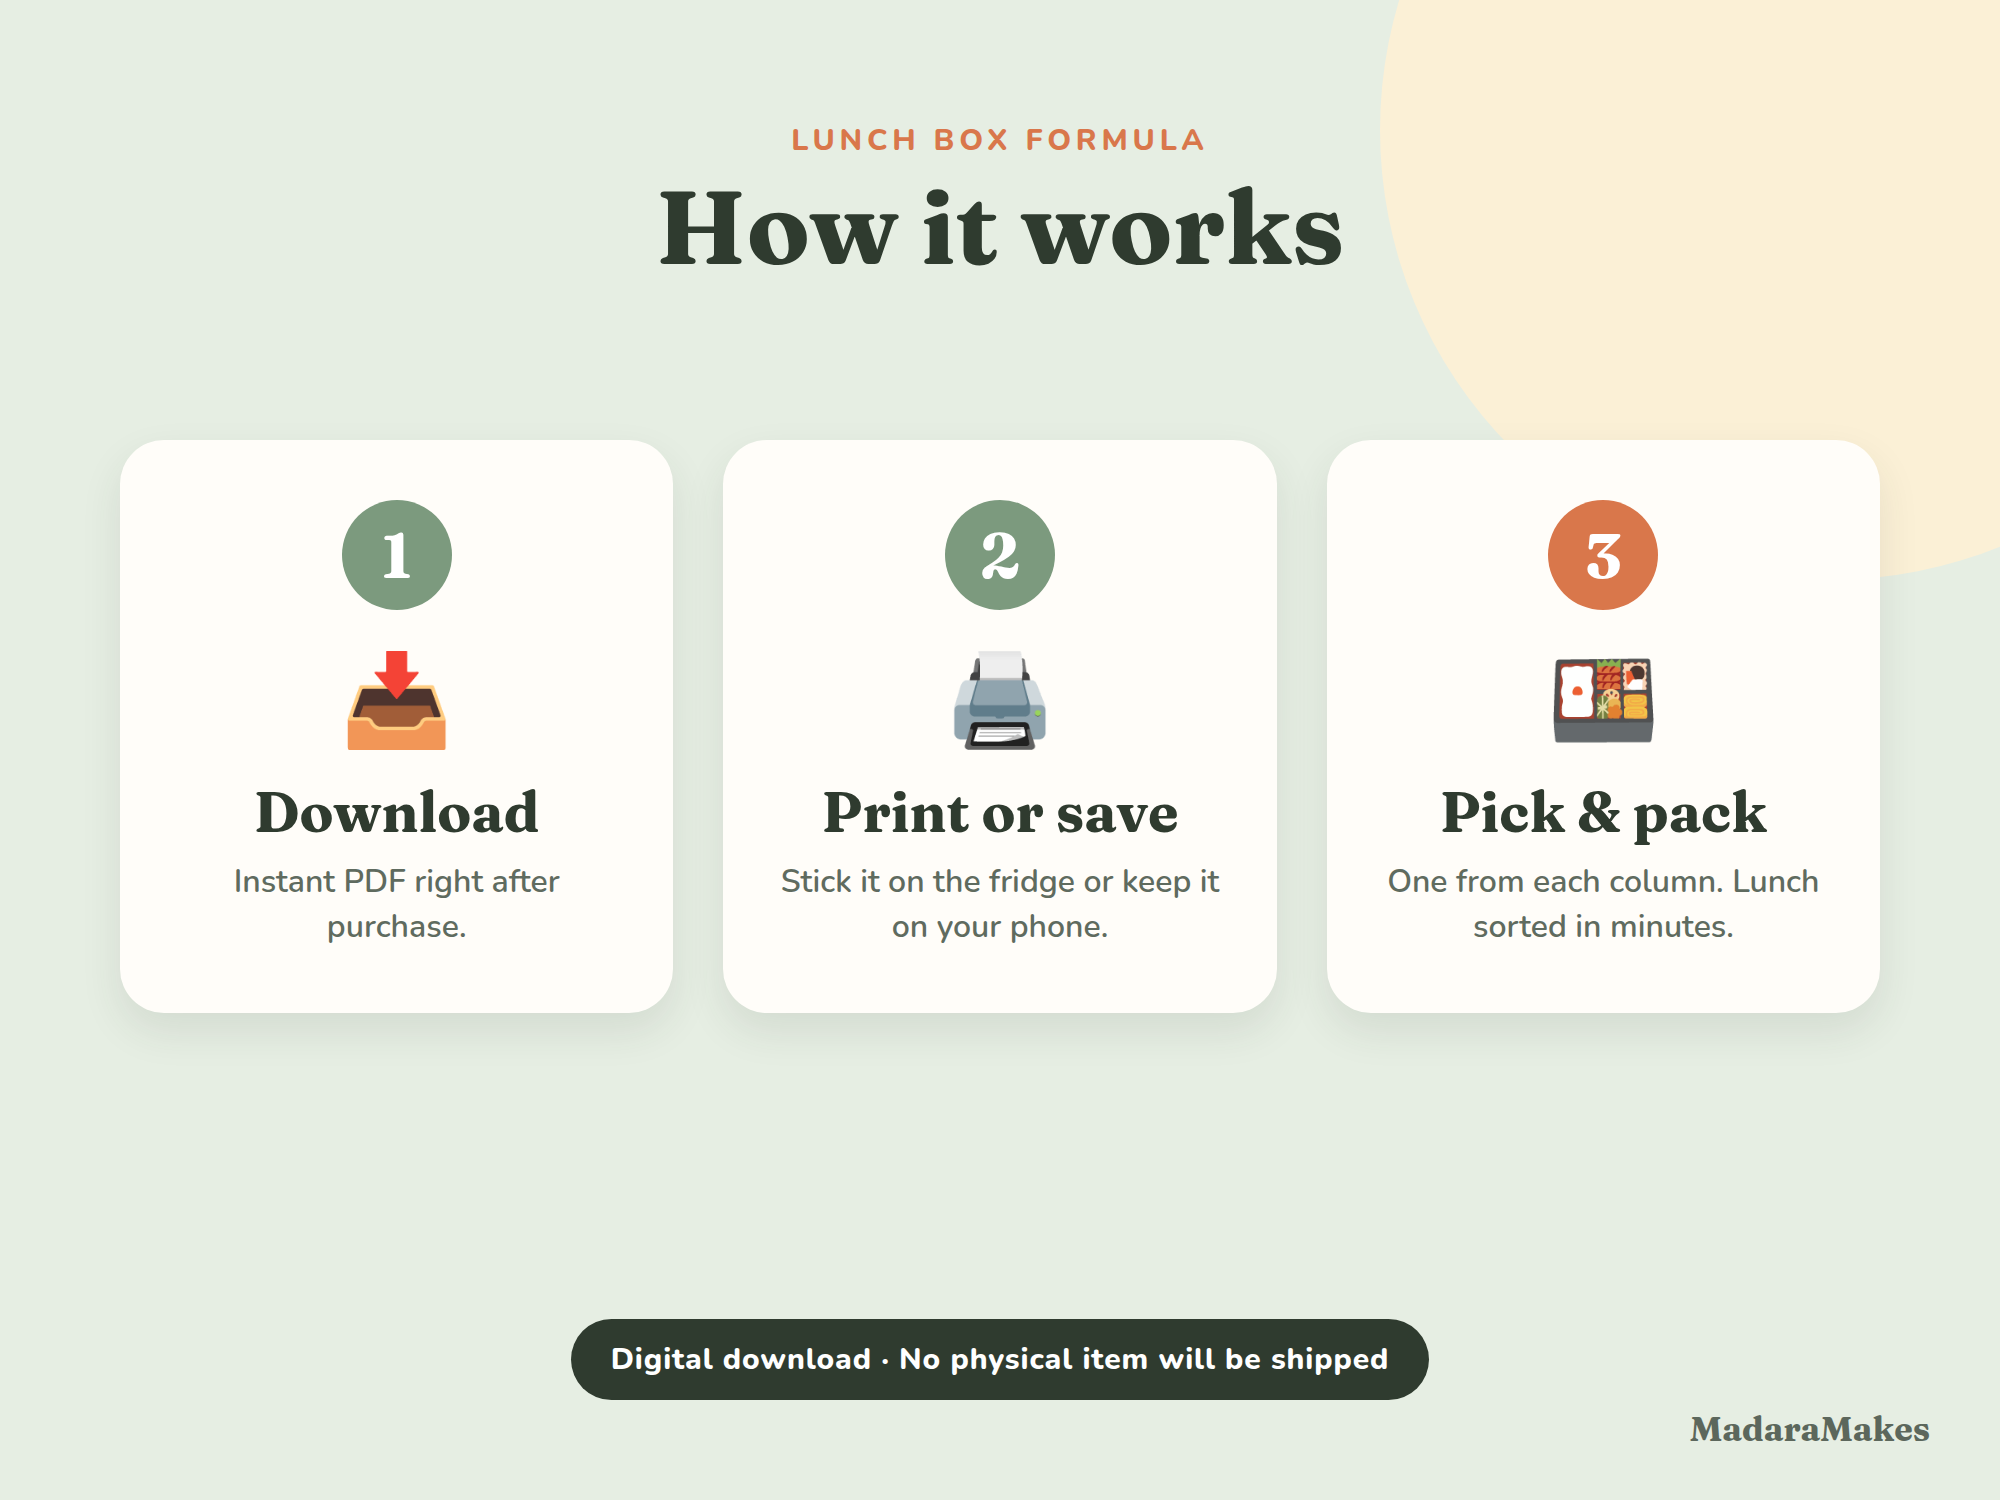
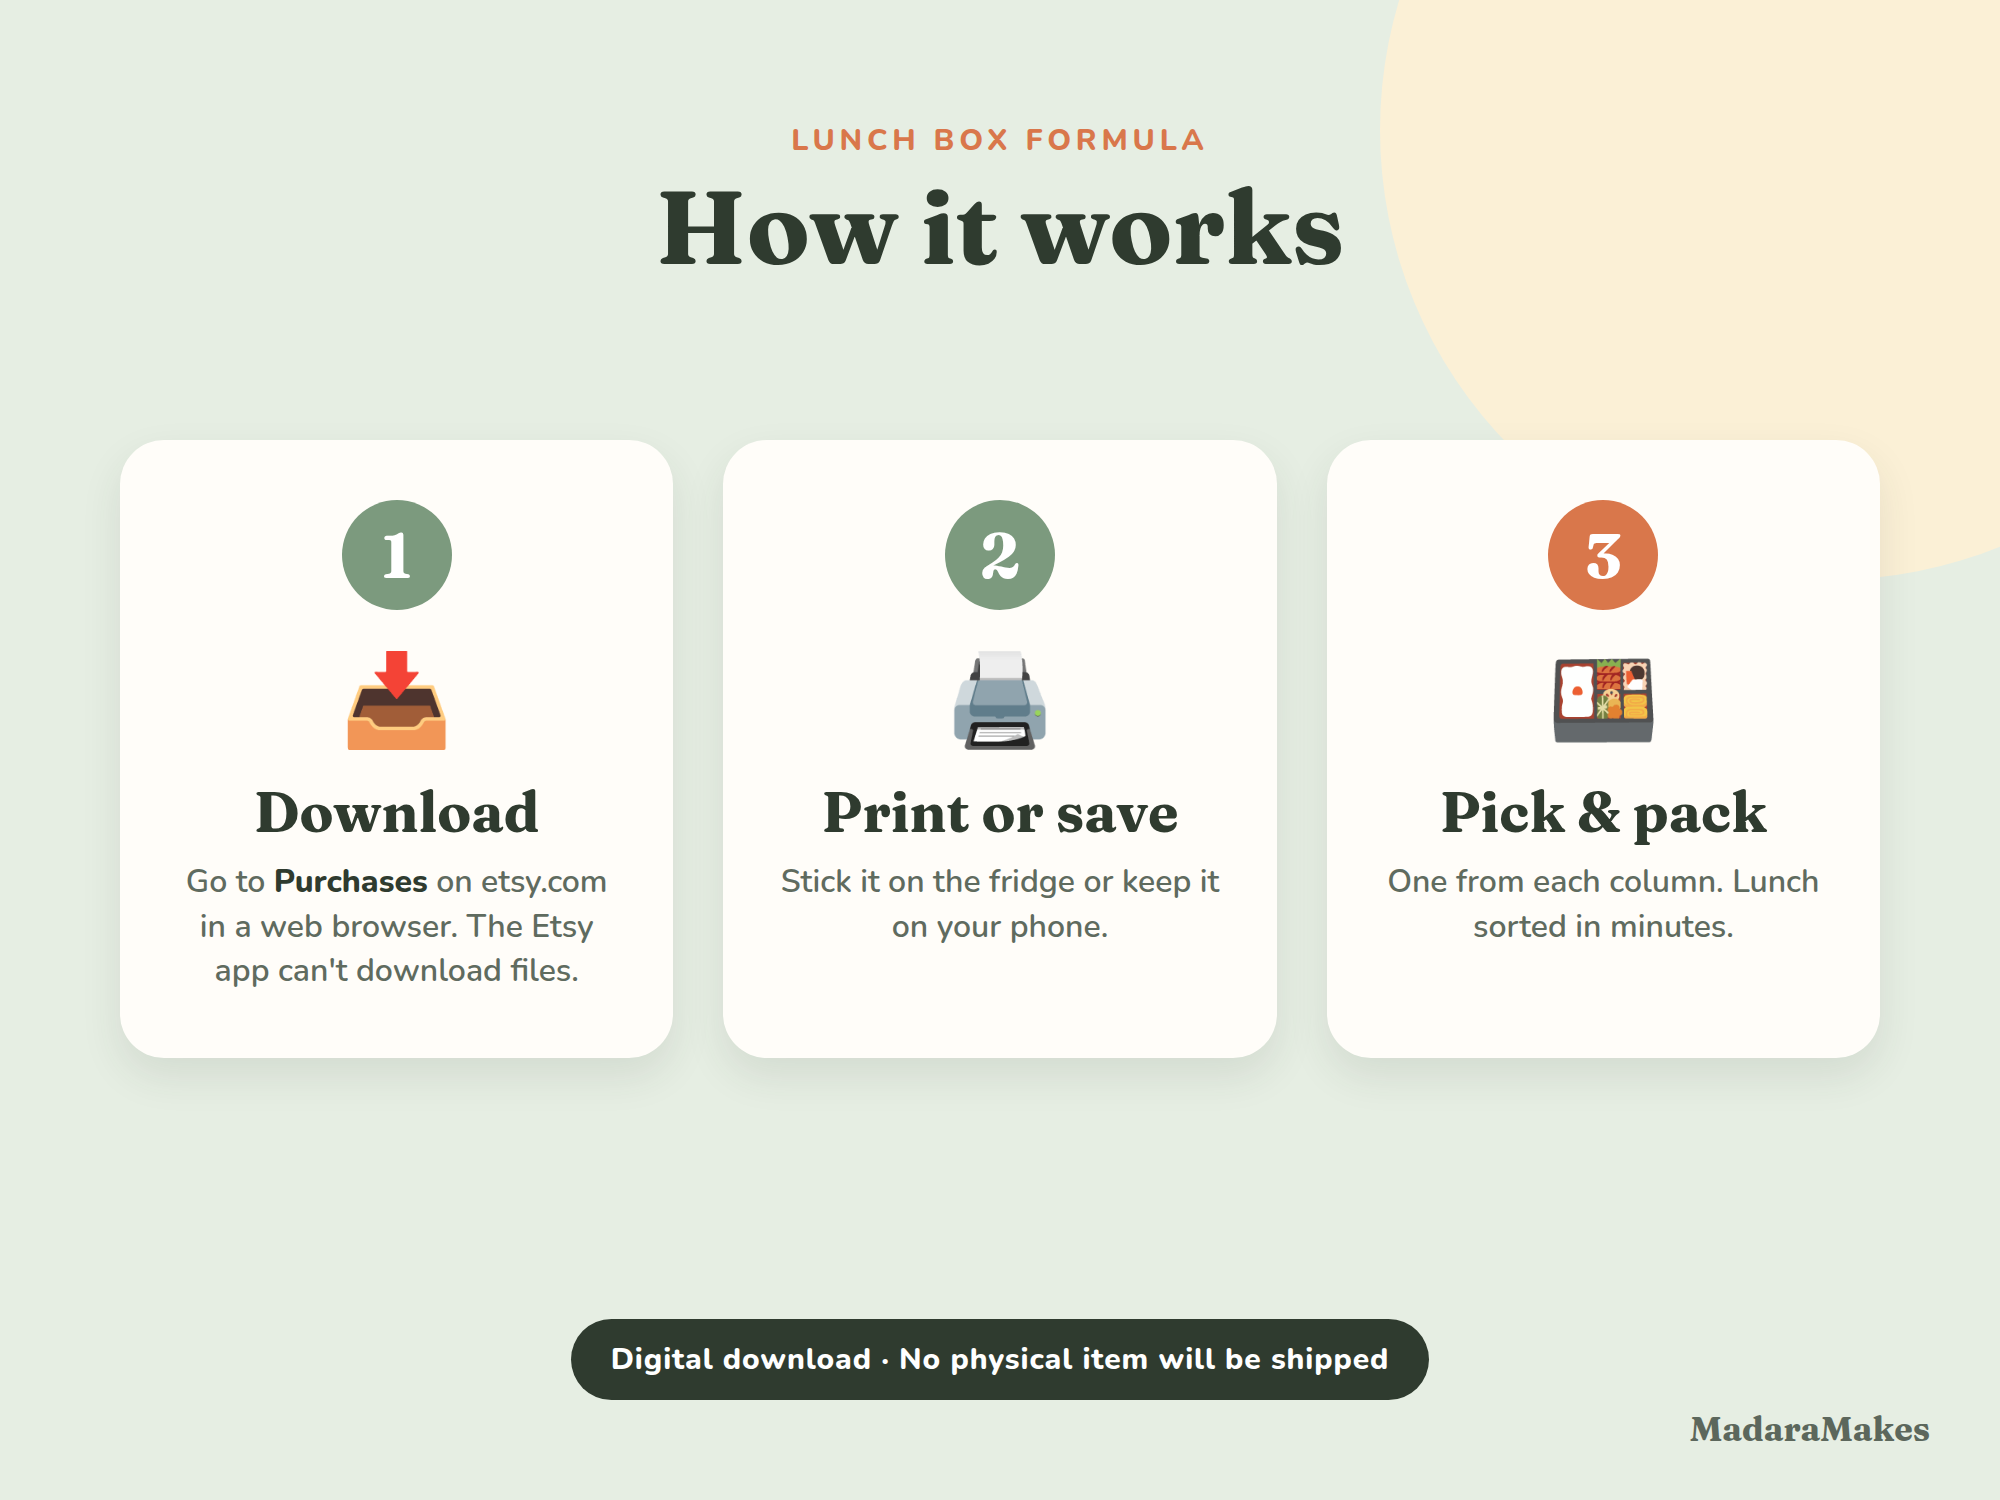
Add Etsy download instructions to How it works image
Claude-Session: https://claude.ai/code/session_01KPPwg3qjQ8qHbGrYntyvxT

Changed region(s): [[0.062, 0.5827, 0.961, 0.7053]]

diff --git a/freebie/listing/mockup-3-how.html b/freebie/listing/mockup-3-how.html
@@ -11,6 +11,7 @@
   .step:nth-child(3) .num { background: var(--terracotta); }
   .emoji { font-size: 90px; margin-bottom: 20px; }
   .t { font-family: "Fraunces", serif; font-size: 56px; line-height: 1.05; margin-bottom: 18px; }
+  .d b { color: var(--ink); }
   .d { font-size: 32px; font-weight: 600; color: var(--muted); line-height: 1.4; }
   .note { position: absolute; left: 0; right: 0; bottom: 120px; text-align: center; }
   .note span { background: var(--ink); color: #fff; font-weight: 800; font-size: 30px; padding: 20px 40px; border-radius: 99px; letter-spacing: .03em; }
@@ -22,7 +23,7 @@
     <h1>How it works</h1>
   </header>
   <div class="steps">
-    <div class="step"><div class="num">1</div><div class="emoji">📥</div><div class="t">Download</div><div class="d">Instant PDF right after purchase.</div></div>
+    <div class="step"><div class="num">1</div><div class="emoji">📥</div><div class="t">Download</div><div class="d">Go to <b>Purchases</b> on etsy.com in a web browser. The Etsy app can't download files.</div></div>
     <div class="step"><div class="num">2</div><div class="emoji">🖨</div><div class="t">Print or save</div><div class="d">Stick it on the fridge or keep it on your phone.</div></div>
     <div class="step"><div class="num">3</div><div class="emoji">🍱</div><div class="t">Pick &amp; pack</div><div class="d">One from each column. Lunch sorted in minutes.</div></div>
   </div>
